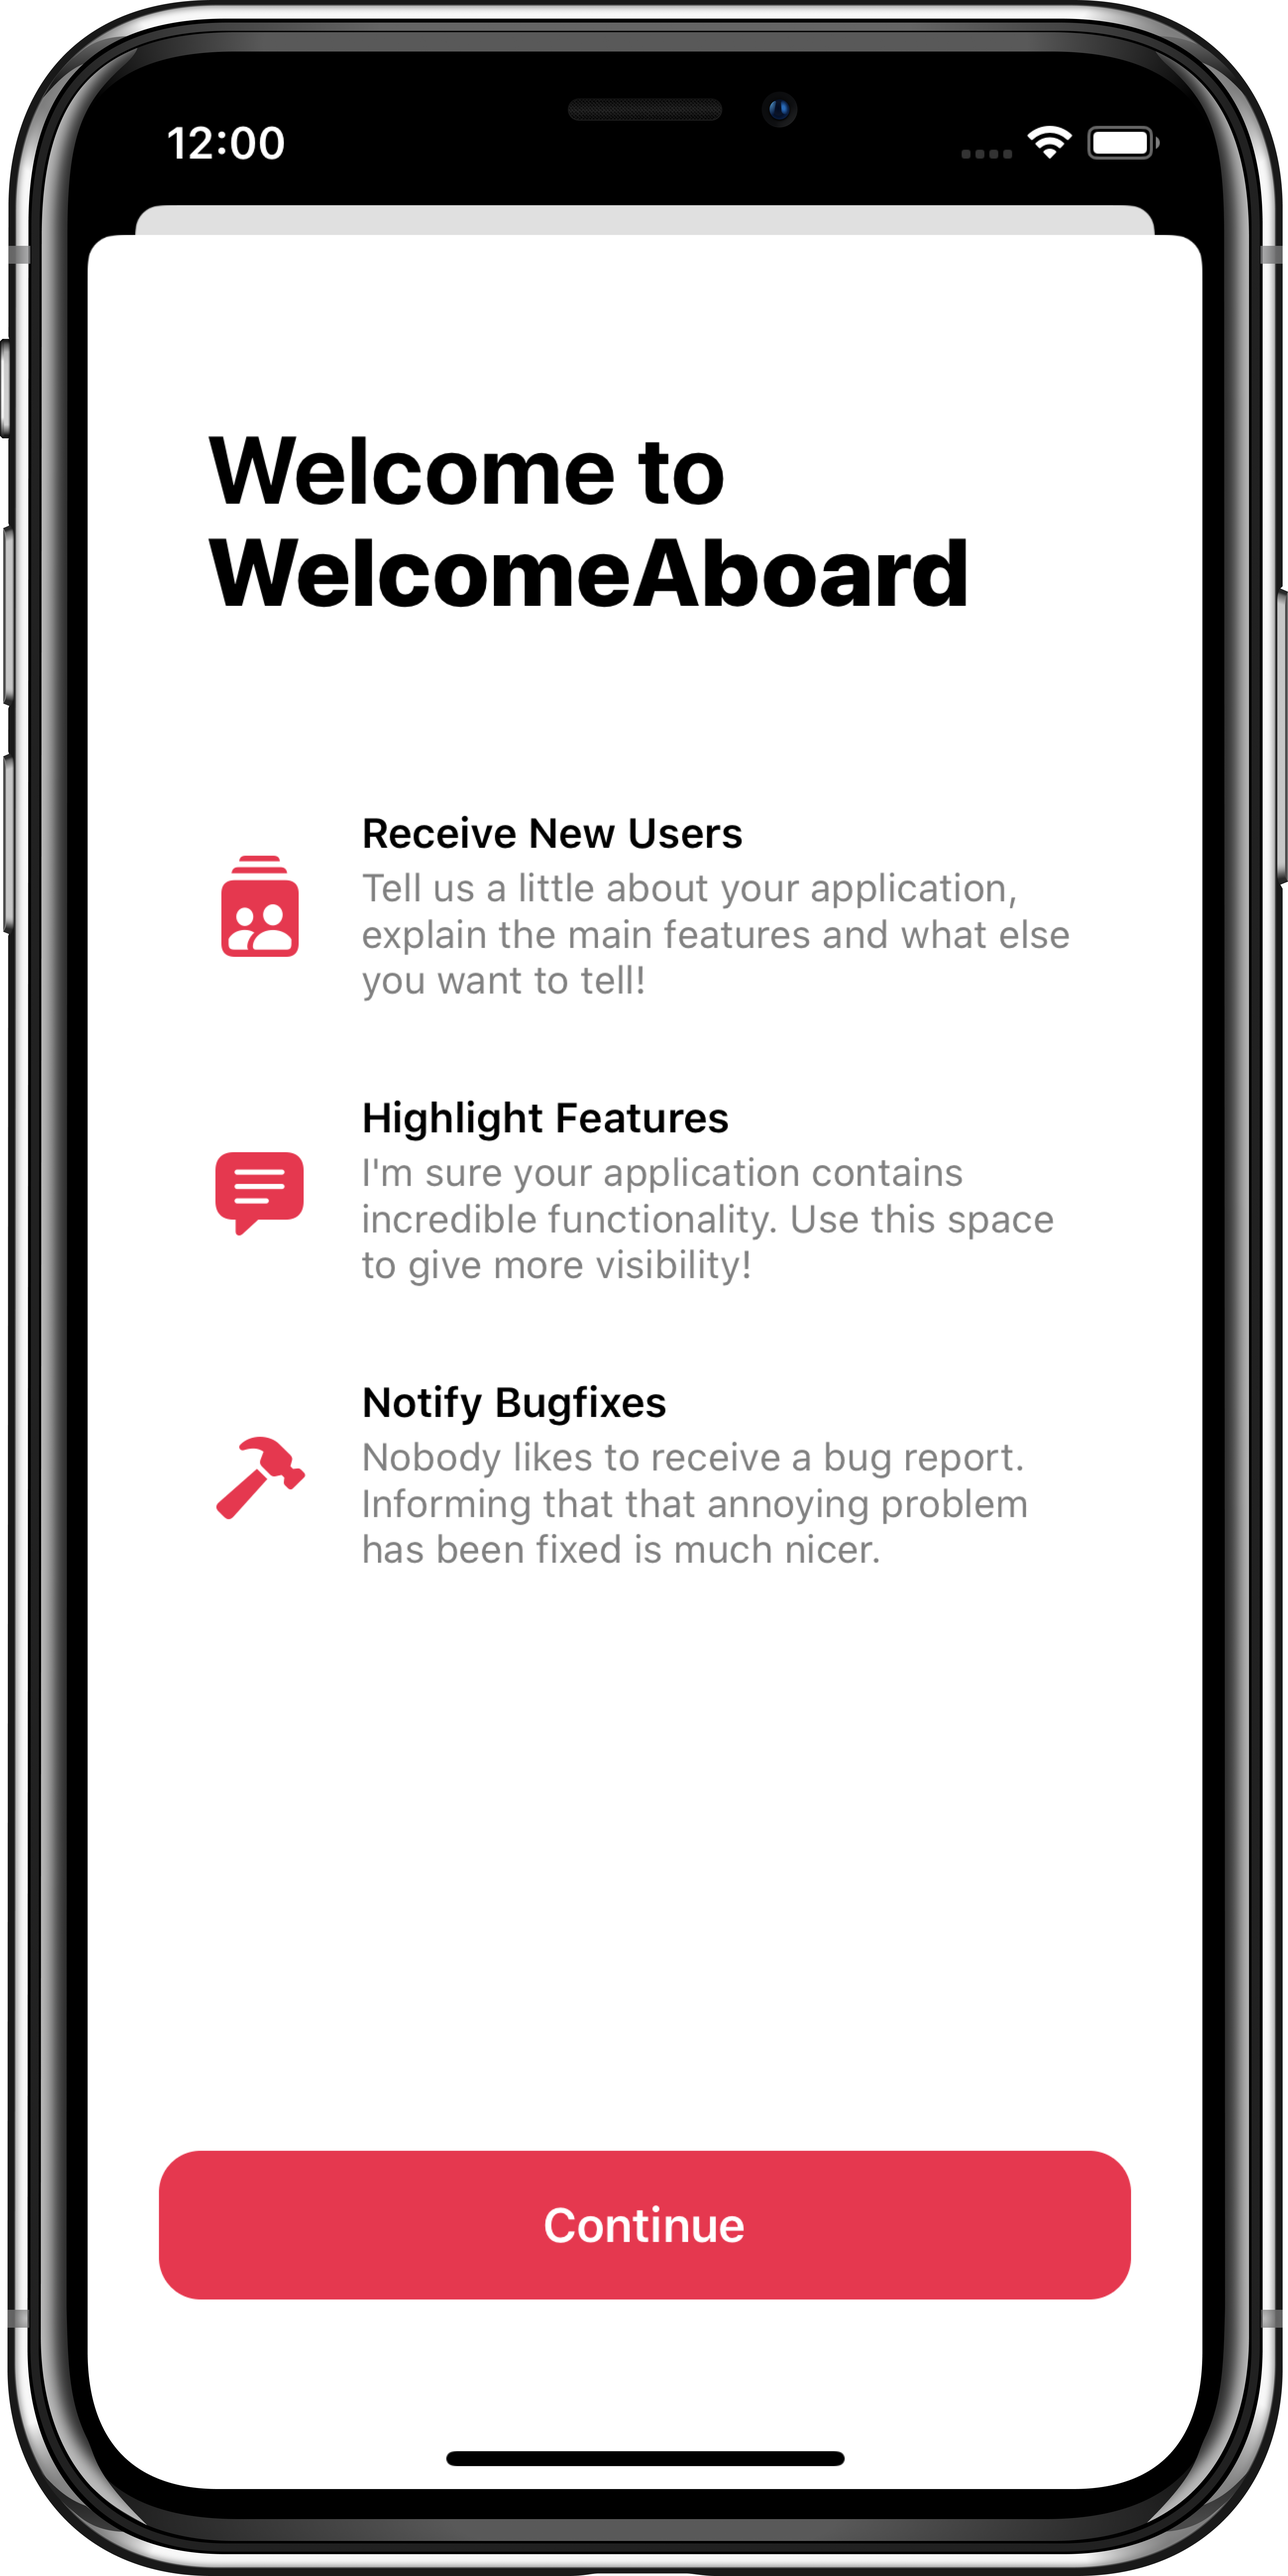
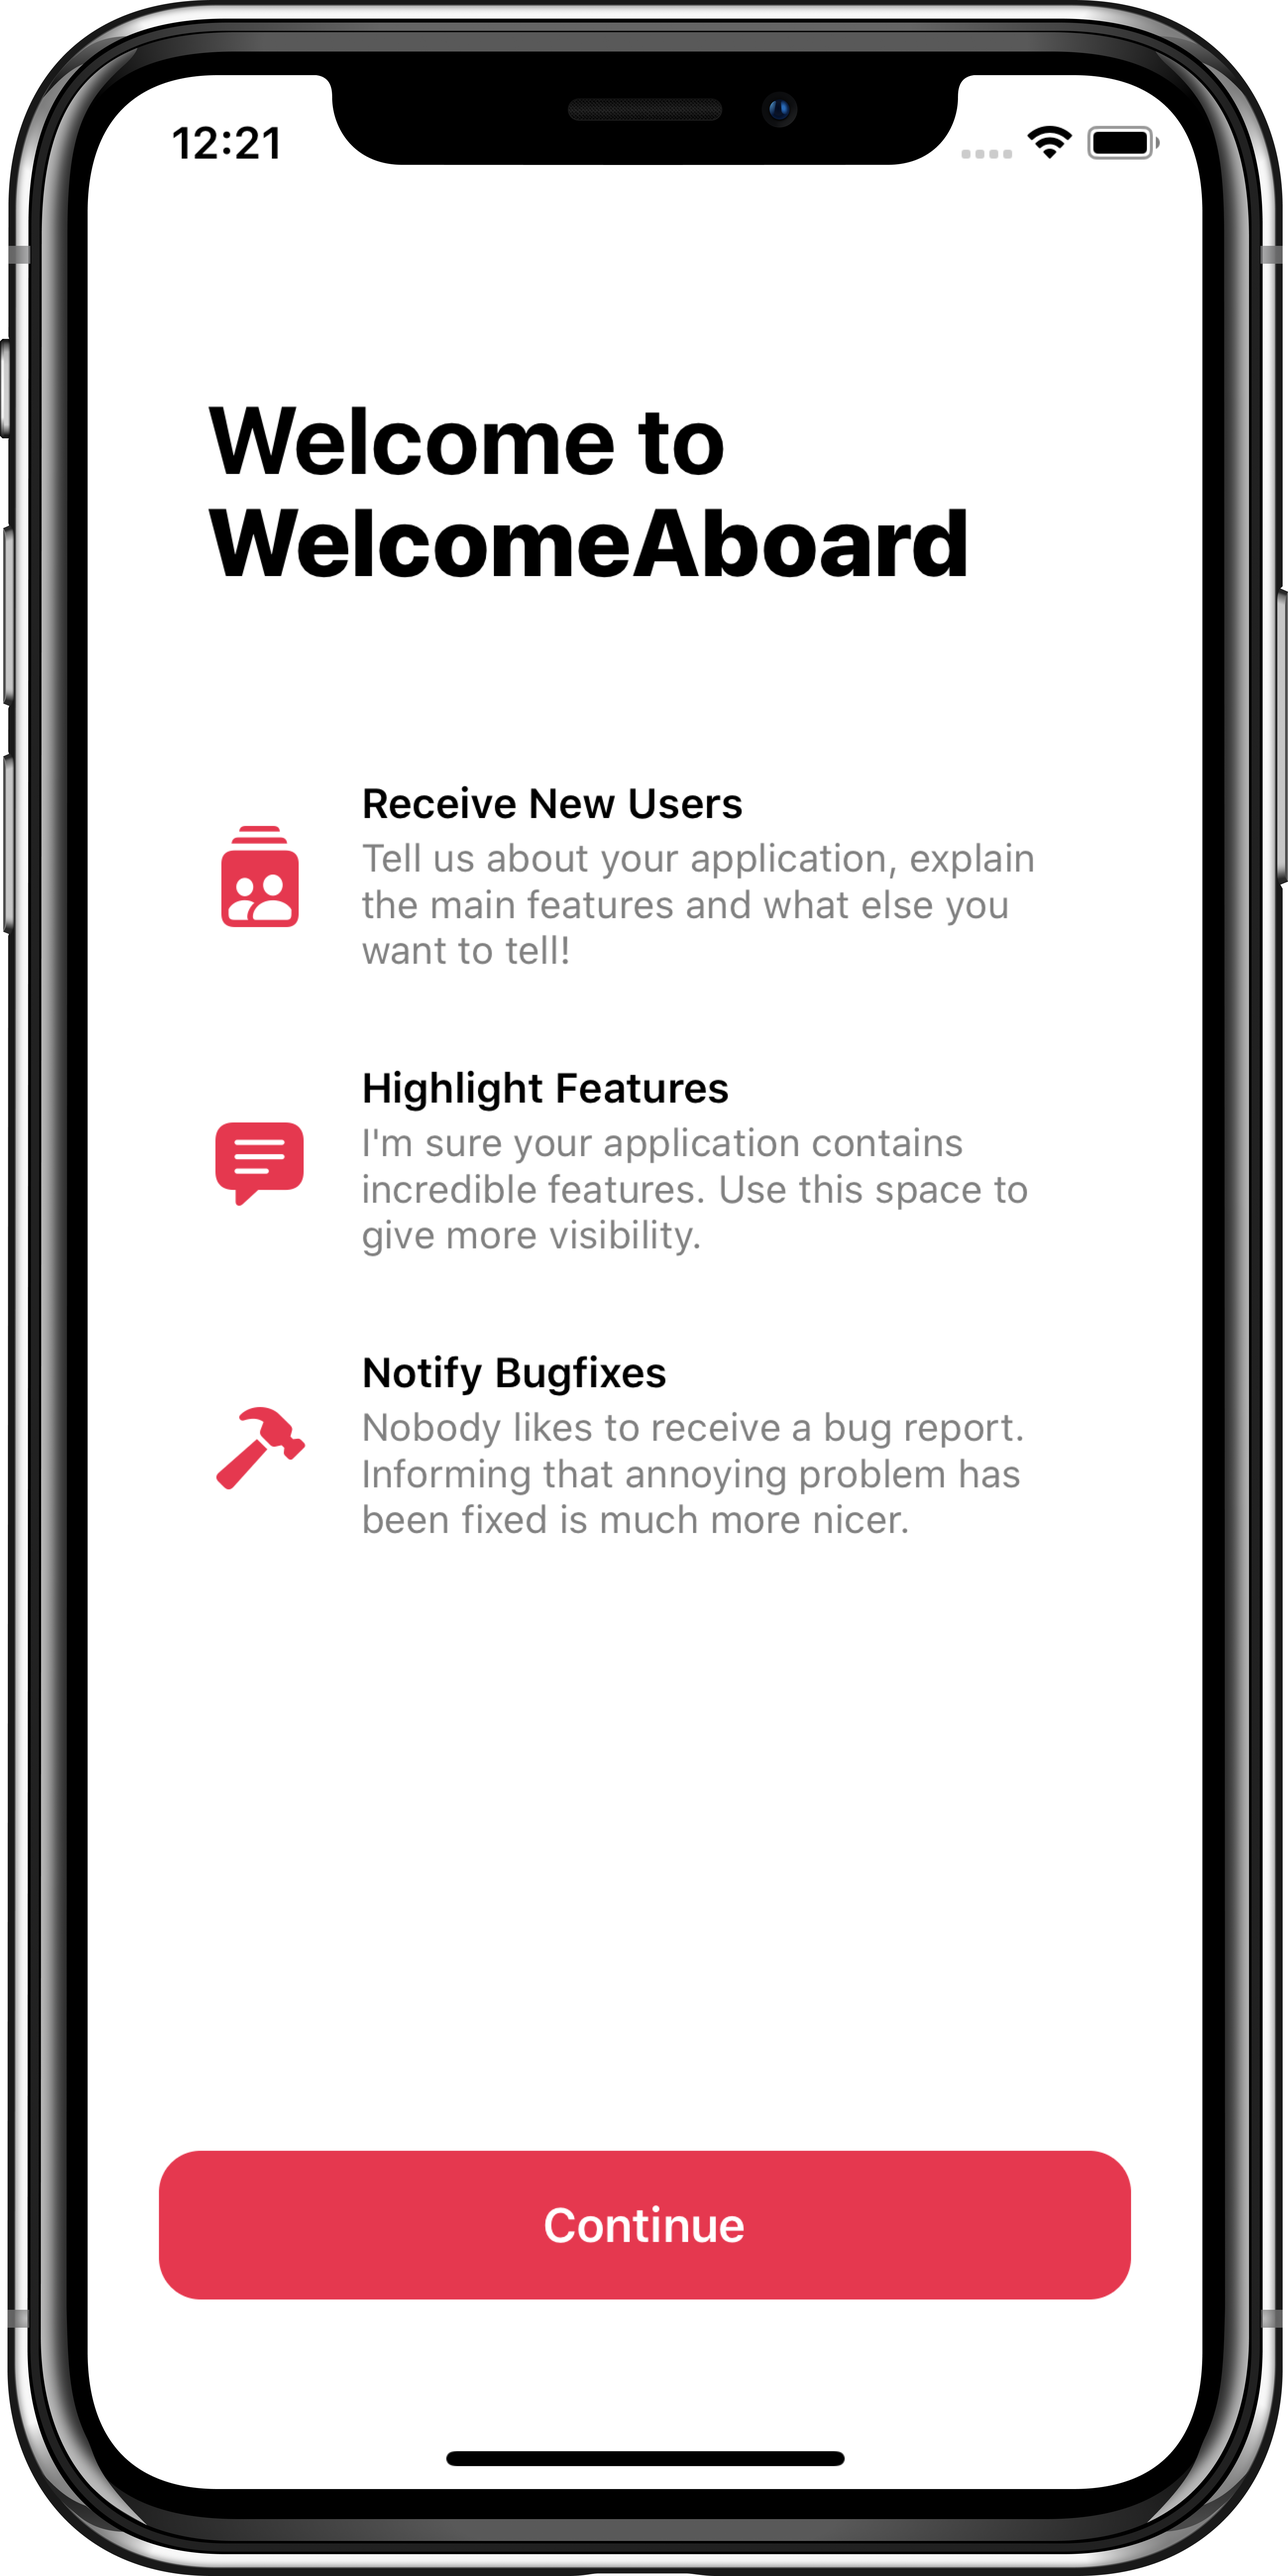
Update to README.md

diff --git a/Example/WelcomeAboard/ViewController.swift b/Example/WelcomeAboard/ViewController.swift
@@ -8,7 +8,7 @@ class ViewController: UIViewController {
     }
 
     private func createWAContent() -> WAContent.Base {
-        let color = UIColor(red:0.90, green:0.22, blue:0.31, alpha:1.00);
+        let color = UIColor(red:0.90, green:0.22, blue:0.31, alpha:1.00)
         let title = WAContent.Title(format: .multiline(welcomeText: "Welcome to"),
                                     text: "WelcomeAboard")
 

diff --git a/README.md b/README.md
@@ -13,7 +13,7 @@
     </a>
 </p>
 
-<br/><br/>
+<br/>
 
 <p align="right">
 <img src="repository-images/welcomeaboard-example.png" align="right"
@@ -23,6 +23,8 @@
 Welcome to **WelcomeAboard**, a quick library to show the main features of your application.
 
 This repository was created to facilitate the creation of a welcome screen similar to native Apple applications.
+
+<br/>
 
 ## Installation
 ### CocoaPods
@@ -36,14 +38,14 @@ $ pod install
 ```
 Congratulations! **WelcomeAboard** has been successfully installed on your project. 😄
 
-<br/><br/>
+<br/>
 
 ## How to use
 First, add `import WelcomeAboard` line on top of your ViewController's code to import the library.<br/>
 Then, create the required models to fill the `WABaseView` and sub-components.
 
 ```swift
-import WelcomeAboard // UIKit import is no longer required because WelcomeAboard import UIKit internally.
+import WelcomeAboard
 
 class ViewController: UIViewController {
     override func loadView() {
@@ -53,25 +55,28 @@ class ViewController: UIViewController {
     }
 
     private func createWAContent() -> WAContent.Base {
-        let title = WAContent.Title(format: .oneline,
-                                    text: "Welcome to Home")
+        let color = UIColor(red:0.90, green:0.22, blue:0.31, alpha:1.00)
+        let title = WAContent.Title(format: .multiline(welcomeText: "Welcome to"),
+                                    text: "WelcomeAboard")
 
         let items = [
-            WAContent.Card(title: "Control Your Home",
-                           resume: "Securely control and monitor your home using the Home app, Control Center, Siri and Apple Watch.",
-                           icon: UIImage(systemName: "house.fill"),
-                           iconTintColor: .orange),
-            WAContent.Card(title: "Set It and Forget It",
-                           resume: "Automate common behaviors, settings, and scenes so everything is ready and waiting for you.",
-                           icon: UIImage(systemName: "clock.fill"),
-                           iconTintColor: .orange),
-            WAContent.Card(title: "Share Access",
-                           resume: "Allow friends, family, and folks you trust to access your home, whenever and however you want.",
-                           icon: UIImage(systemName: "person.crop.circle.fill.badge.checkmark"),
-                           iconTintColor: .orange)
+            WAContent.Card(title: "Receive New Users",
+                           resume: "Tell us about your application, explain the main features and what else you want to tell!",
+                           icon: UIImage(systemName: "person.2.square.stack.fill"),
+                           iconTintColor: color),
+            WAContent.Card(title: "Highlight Features",
+                           resume: "I'm sure your application contains incredible features. Use this space to give more visibility.",
+                           icon: UIImage(systemName: "text.bubble.fill"),
+                           iconTintColor: color),
+            WAContent.Card(title: "Notify Bugfixes",
+                           resume: "Nobody likes to receive a bug report. Informing that annoying problem has been fixed is much more nicer.",
+                           icon: UIImage(systemName: "hammer.fill"),
+                           iconTintColor: color)
         ]
 
-        let button = WAContent.Button(text: "Continue", backgroundColor: .orange)
+        let button = WAContent.Button(text: "Continue", backgroundColor: color) { [weak self] in
+            self?.dismiss(animated: true)
+        }
 
         return WAContent.Base(backgroundColor: .white,
                               title: title,
@@ -81,7 +86,7 @@ class ViewController: UIViewController {
 }
 ```
 
-> *Please, extract your strings to a separate file.* 😝
+> *Please, extract your strings to a separate file.* 😄
 
 In this example, `WABaseView` was created inside `loadView` method, but this is not required. You can create the `WABaseView` whereaver you want.
 
@@ -155,14 +160,3 @@ Feel free to send suggestions or even a pull request.
 If you make changes with visual effects, remember to run/update the snapshot tests.
 
 Have fun using **WelcomeAboard** ⛵
-
-<br><br><br><br><br><br><br>
-
-
-## Getting Started
-
-
-
-### Motivation 
-
-After several problems in ensuring the alignment and baselines established in the project requirement. This tool was developed, together with the design/ux team, to facilitate and ensure that visual elements follow the established baselines.
